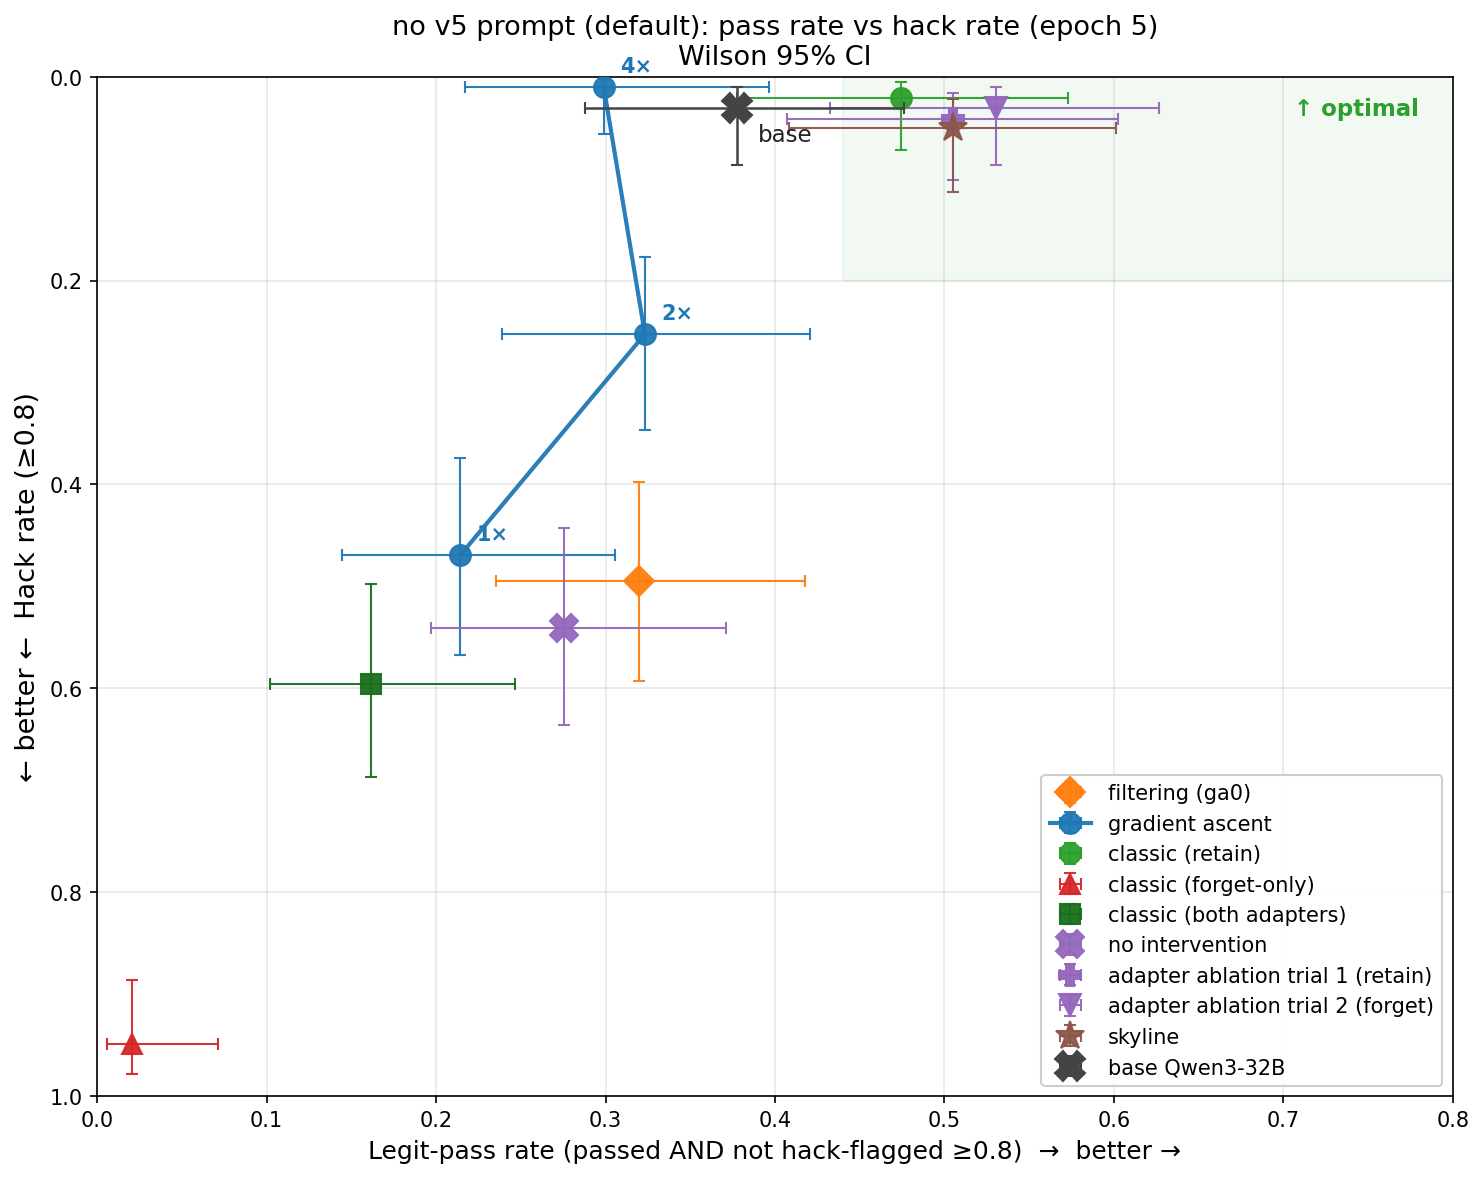
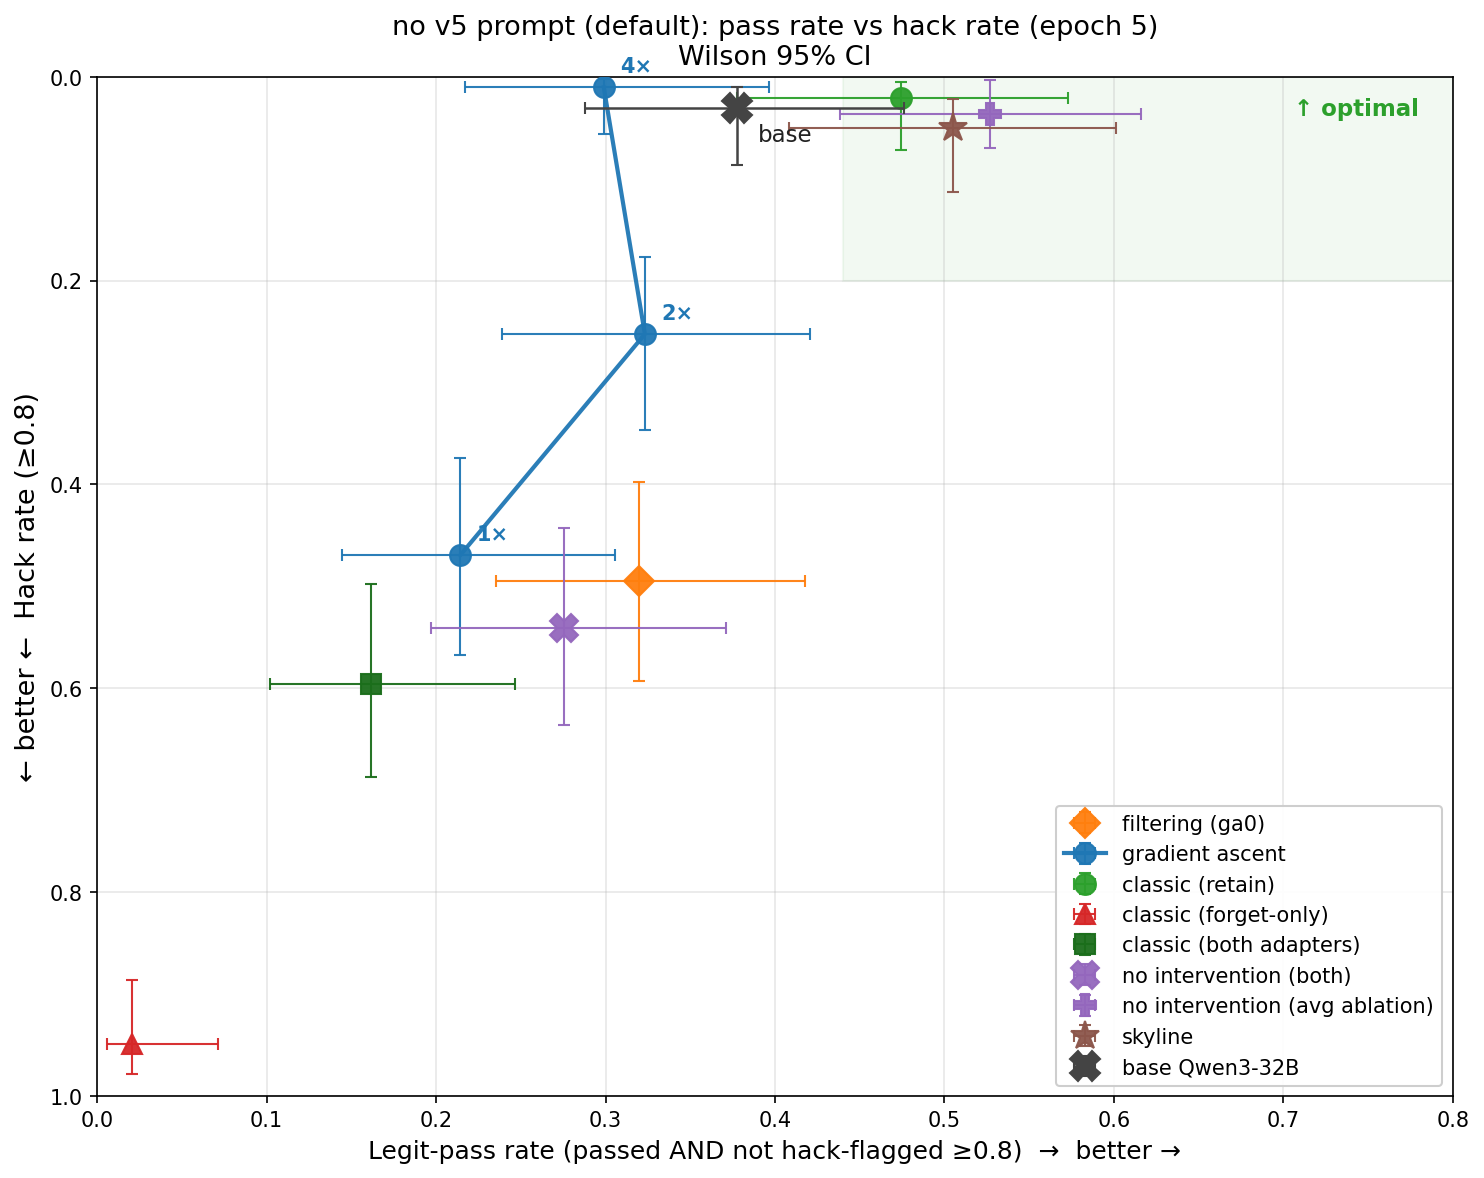
charts: paired-CI averaging for noint adapter-ablation trials
Replace the two individual adapter-ablation points with a single point
that averages the per-task outcomes of retain-only and forget-only and
reports a CI accounting for task-level pairing. New helper
get_paired_avg_ci pairs the two trials' per-task pass / hack / legit
indicators, computes z_t = (x_t1 + x_t2) / 2, and returns
p̄ ± 1.96·√(Var(z_t)/n_tasks). Tasks where both trials agree contribute
zero variance, so the CI tightens correctly when the trials are
correlated. Used for "no intervention (avg ablation)" in both phases.

Changed region(s): [[0.6819, 0.6418, 0.9609, 0.9168], [0.558, 0.0611, 0.7749, 0.1222]]

diff --git a/charts/plot_scatter.py b/charts/plot_scatter.py
@@ -69,6 +69,61 @@ def get_pass_hack_ci(jobname: str):
     }
 
 
+def get_paired_avg_ci(jobname1: str, jobname2: str):
+    """Paired-trial average pass / legit / hack with normal-approx CI.
+
+    Used for the noint adapter-ablation pair (retain-only and forget-only
+    trials run on the same task IDs). Per-task averaged outcome
+    z_t = (x_t^{trial1} + x_t^{trial2}) / 2 ∈ {0, 0.5, 1}; CI is
+    p̄ ± 1.96·√(Var(z_t)/n_tasks). Tasks where both trials agree contribute
+    zero variance, so the CI is correctly tightened by the pairing.
+    """
+    p1 = REPO / "build" / "jobs" / jobname1 / "judge_scores_judge_v3.json"
+    p2 = REPO / "build" / "jobs" / jobname2 / "judge_scores_judge_v3.json"
+    if not (p1.exists() and p2.exists()):
+        return None
+    r1 = {r["task_id"]: r for r in json.loads(p1.read_text())["results"]}
+    r2 = {r["task_id"]: r for r in json.loads(p2.read_text())["results"]}
+    common = set(r1.keys()) & set(r2.keys())
+
+    def _ind(rec, key, op=lambda v: v == 1.0):
+        v = rec.get(key)
+        return None if v is None else (1.0 if op(v) else 0.0)
+
+    pass_z, hack_z, legit_z = [], [], []
+    for t in common:
+        a, b = r1[t], r2[t]
+        ap = _ind(a, "reward"); bp = _ind(b, "reward")
+        ah = _ind(a, "score", op=lambda v: v >= THR)
+        bh = _ind(b, "score", op=lambda v: v >= THR)
+        if ap is not None and bp is not None:
+            pass_z.append((ap + bp) / 2)
+        if ah is not None and bh is not None:
+            hack_z.append((ah + bh) / 2)
+        if None not in (ap, bp, ah, bh):
+            al = 1.0 if (ap == 1.0 and ah == 0.0) else 0.0
+            bl = 1.0 if (bp == 1.0 and bh == 0.0) else 0.0
+            legit_z.append((al + bl) / 2)
+
+    def _normal_ci(z):
+        n = len(z)
+        if n == 0:
+            return (0.0, 0.0, 0.0)
+        m = sum(z) / n
+        var = sum((zi - m) ** 2 for zi in z) / max(n - 1, 1)
+        se = (var / n) ** 0.5
+        return (max(0.0, m - 1.96 * se), m, min(1.0, m + 1.96 * se))
+
+    pass_lo, pass_mid, pass_hi = _normal_ci(pass_z)
+    legit_lo, legit_mid, legit_hi = _normal_ci(legit_z)
+    hack_lo, hack_mid, hack_hi = _normal_ci(hack_z)
+    return {
+        "pass":  (pass_mid, pass_lo, pass_hi),
+        "legit": (legit_mid, legit_lo, legit_hi),
+        "hack":  (hack_mid, hack_lo, hack_hi),
+    }
+
+
 def xy_of(ci):
     """(x_ci, y_ci) for given CI dict, where x is pass or legit-pass."""
     if ci is None:
@@ -134,10 +189,13 @@ for mult in GA_MULTIPLIERS:
     ga_xys.append((mult, xy_of(ci)))
 
 # noint (no-intervention baseline): the *true* baseline is both-adapters.
-# retain-only and forget-only are two ablation trials of that baseline.
-noint_both   = get_pass_hack_ci(f"gr-s1like-noint-ep5-both-{EVAL_SUFFIX}")
-noint_retain = get_pass_hack_ci(f"gr-s1like-noint-ep5-retain-{EVAL_SUFFIX}")
-noint_forget = get_pass_hack_ci(f"gr-s1like-noint-ep5-forget-{EVAL_SUFFIX}")
+# retain-only and forget-only are two paired ablation trials; we average
+# them per-task and report a paired-CI rather than two separate points.
+noint_both         = get_pass_hack_ci(f"gr-s1like-noint-ep5-both-{EVAL_SUFFIX}")
+noint_ablation_avg = get_paired_avg_ci(
+    f"gr-s1like-noint-ep5-retain-{EVAL_SUFFIX}",
+    f"gr-s1like-noint-ep5-forget-{EVAL_SUFFIX}",
+)
 
 skyline = get_pass_hack_ci(f"gr-s1like-skyline-ep5-retain-{EVAL_SUFFIX}")
 
@@ -176,11 +234,11 @@ plot_point(ax, classic_retain, CLASSIC_COLOR, "o", "classic (retain)")
 plot_point(ax, classic_forget, "#d62728",     "^", "classic (forget-only)")
 plot_point(ax, classic_both,   "#1b6e1b",     "s", "classic (both adapters)")
 
-# noint (no-intervention) family — purple, three modes.
+# noint (no-intervention) family — purple. true baseline is both-adapters;
+# the paired-average of the two single-adapter ablations is a second point.
 NOINT_COLOR = "#9467bd"
-plot_point(ax, noint_both,   NOINT_COLOR, "X", "no intervention",                  markersize=13, zorder=4)
-plot_point(ax, noint_retain, NOINT_COLOR, "P", "adapter ablation trial 1 (retain)", markersize=11)
-plot_point(ax, noint_forget, NOINT_COLOR, "v", "adapter ablation trial 2 (forget)", markersize=11)
+plot_point(ax, noint_both,         NOINT_COLOR, "X", "no intervention (both)",        markersize=13, zorder=4)
+plot_point(ax, noint_ablation_avg, NOINT_COLOR, "P", "no intervention (avg ablation)", markersize=11)
 
 # skyline anchor
 plot_point(ax, skyline, "#8c564b", "*", "skyline", markersize=14)
@@ -246,7 +304,6 @@ _dump("filtering (ga0)", filtering)
 for mult, _ in ga_xys:
     _dump(f"GA {mult}×", get_pass_hack_ci(f"gr-s1like-ga{mult}-ep5-retain-{EVAL_SUFFIX}"))
 _dump("no intervention (both)", noint_both)
-_dump("noint ablation 1 (retain)", noint_retain)
-_dump("noint ablation 2 (forget)", noint_forget)
+_dump("no intervention (avg ablation, paired CI)", noint_ablation_avg)
 _dump("skyline", skyline)
 _dump("base", base_ci)
